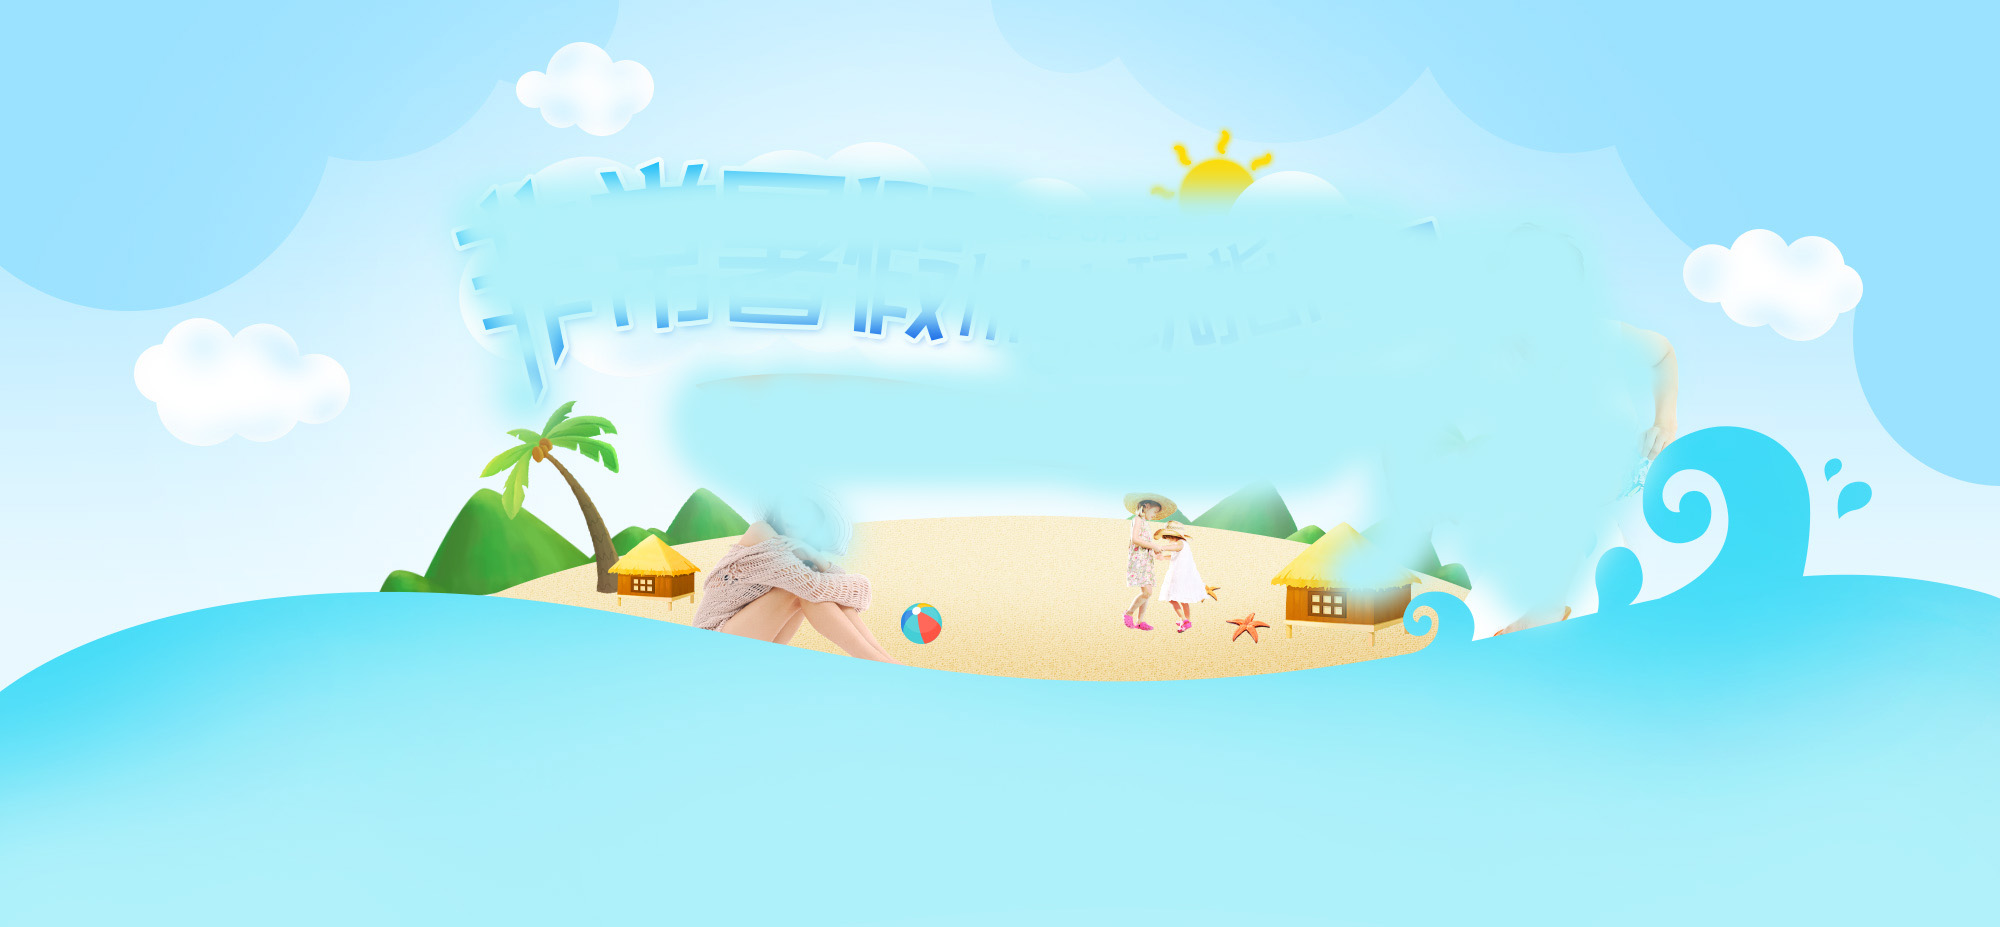
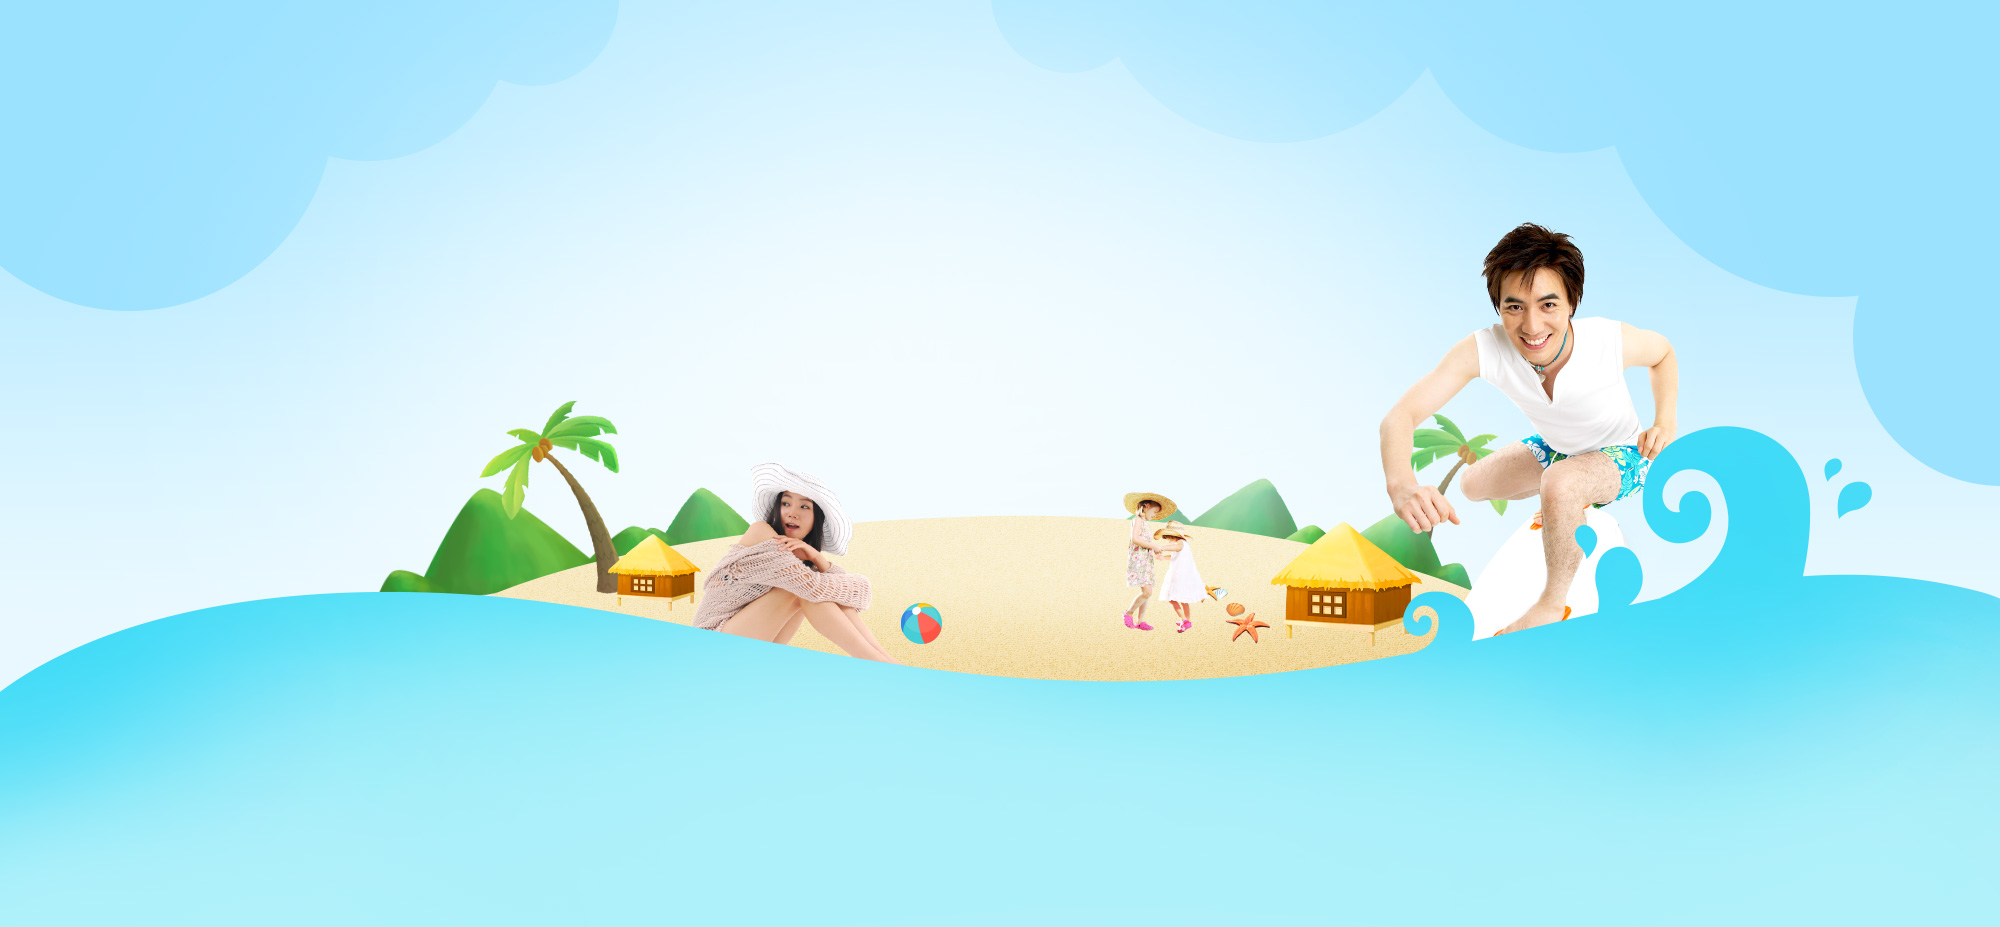
h5效果

diff --git a/css/style.css b/css/style.css
@@ -26,10 +26,47 @@ input:-webkit-autofill{background-color:transparent}
 .nav-list a:not(.more):hover:after,.nav-list a.cur:after{ content: ""; width: 15px;height: 7px;position: absolute;top: 26px;left: 18px; background: url(../images/arrow.png) no-repeat;}
 .nav-list .more{display: inline-block; height: 24px; line-height: 24px;font-size: 16px;color: #0087eb; border: 1px solid #0087eb; padding:0 10px; cursor: pointer;border-radius: 15px;-moz-border-radius: 15px;-webkit-border-radius: 15px;-ms-border-radius: 15px;margin-left: 15px;}
 
-.banners{width: 100%;height: 192px;background: url(../images/banner.jpg) no-repeat top center;padding-top: 735px;}
+.banners{width: 100%;height: 192px;background: url(../images/banner.jpg) no-repeat top center;padding-top: 735px; position: relative; overflow: hidden;}
+.banners h2{height: 269px; width: 1100px; position: absolute; left: 50%; top: -36%; margin-left: -550px; }
+.banners h2 span{background: url(../images/title.png) no-repeat top; height: 269px; width: 1003px; display: inline-block; position: relative; z-index: 3}
+.banners h2 b{background: url(../images/sun.png) no-repeat top; height: 148px; width: 149px; position: absolute; right: 260px; top: -20px; z-index: 2;}
+.banners h4{background: url(../images/ad.png) no-repeat top; height: 104px; width: 634px; position: absolute; right:-34%; top: 39%; margin-left: -316px;}
+.banners h2,.banners h4{transition: all 1s; -webkit-transition: all 1s;}
+.banners.animation h2{ top: 15%;}
+.banners.animation h4{right: 50%; margin-right: -316px;}
+.banners.animation h2 b{ animation:shake 0.5s 1s;}
+@keyframes shake{
+	0% {
+		-webkit-transform: rotate(0deg);
+		        transform: rotate(0deg);
+	}
+	100% {
+		-webkit-transform: rotate(360deg);
+		        transform: rotate(360deg);
+	}
+
+}
+@keyframes btnscroll{
+	0% {
+		-webkit-transform: translateY(0%);
+		        transform: translateY(0%);
+	}
+	50% {
+		-webkit-transform: translateY(-10%);
+		        transform: translateY(-10%);
+	}
+	100% {
+		-webkit-transform: translateY(0%);
+		        transform: translateY(0%);
+	}
+
+}
+
+
 .coupons{width: 1074px;height: 108px;margin: 0 auto;background: url(../images/coupons.png) no-repeat;position: relative;}
 .receive{width: 202px;height: 75px;background: url(../images/receive.png) no-repeat;position: absolute;top: 20px;left: 443px;cursor: pointer;}
 .coupons-cont{width: 300px;height: 80px;background-color: #f2f2f2;color: #000;border-radius: 50px;-moz-border-radius: 50px;-webkit-border-radius: 50px;-ms-border-radius: 50px;line-height: 80px;text-align: center;background: #fff;}
+.receive:hover{ animation: btnscroll 0.5s 3;}
 
 .slider{ position: fixed; top: 40%; left: 120px; z-index: 8}
 .slider .top-img{ position: absolute; top: -129px; left: -2px; background: url(../images/balloon.png) no-repeat; width: 117px; height: 132px; z-index: -1}

diff --git a/summeract.html b/summeract.html
@@ -29,6 +29,8 @@
 	</dl>
 </div>	
 <div class="banners">
+	<h2><span></span><b></b></h2>
+	<h4></h4>
 	<div class="coupons">
 		<div class="receive"></div>
 	</div>
@@ -369,16 +371,17 @@
 			$(this).addClass("cur").siblings().removeClass("cur");
 		})
 
-		// $.ajax({
-  //           url: "line.ajaxindex.html",
-  //           dataType: "json",
-  //           // data: $.extend({}, { p: p }),
-  //           success: function (result)  {
-  //               if (result.status == "1") {	
-  //               	$(".line-list").html($(".tmpl-linelist").tmpl({ list: result.list }));
-  //               }
-  //           }
-		// });
+		$(".banners").addClass('animation');
+		$.ajax({
+		          url: "line.ajaxindex.html",
+		          dataType: "json",
+		          data: $.extend({}, { p: p }),
+		          success: function (result)  {
+		              if (result.status == "1") {	
+		              	$(".line-list").html($(".tmpl-linelist").tmpl({ list: result.list }));
+		              }
+		          }
+		});
 	})
 </script>
 
